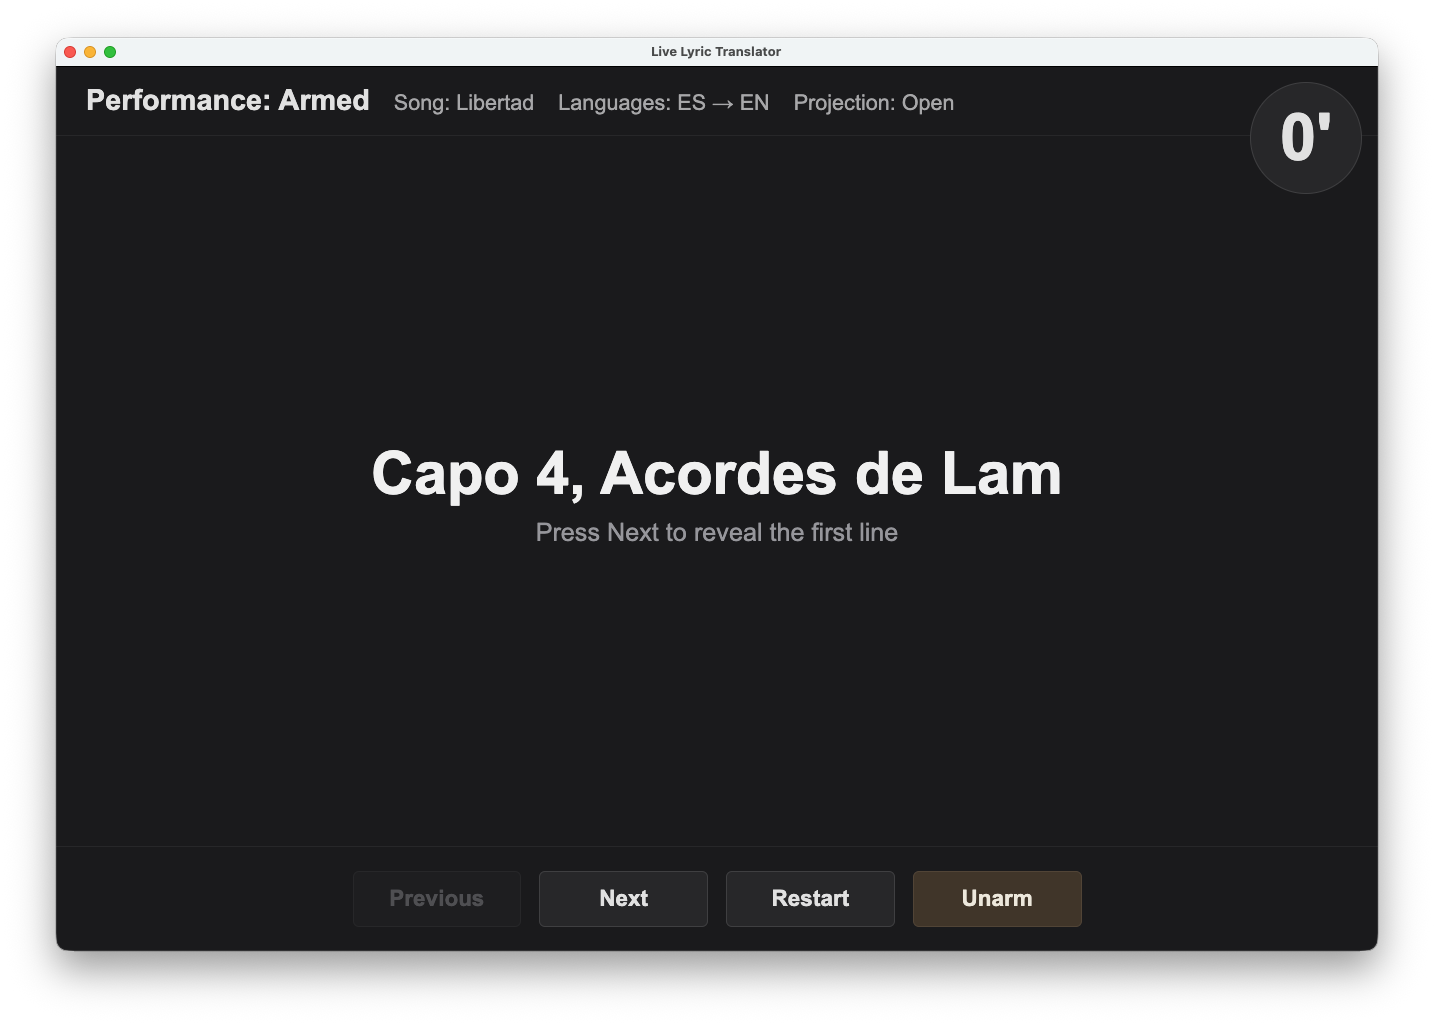
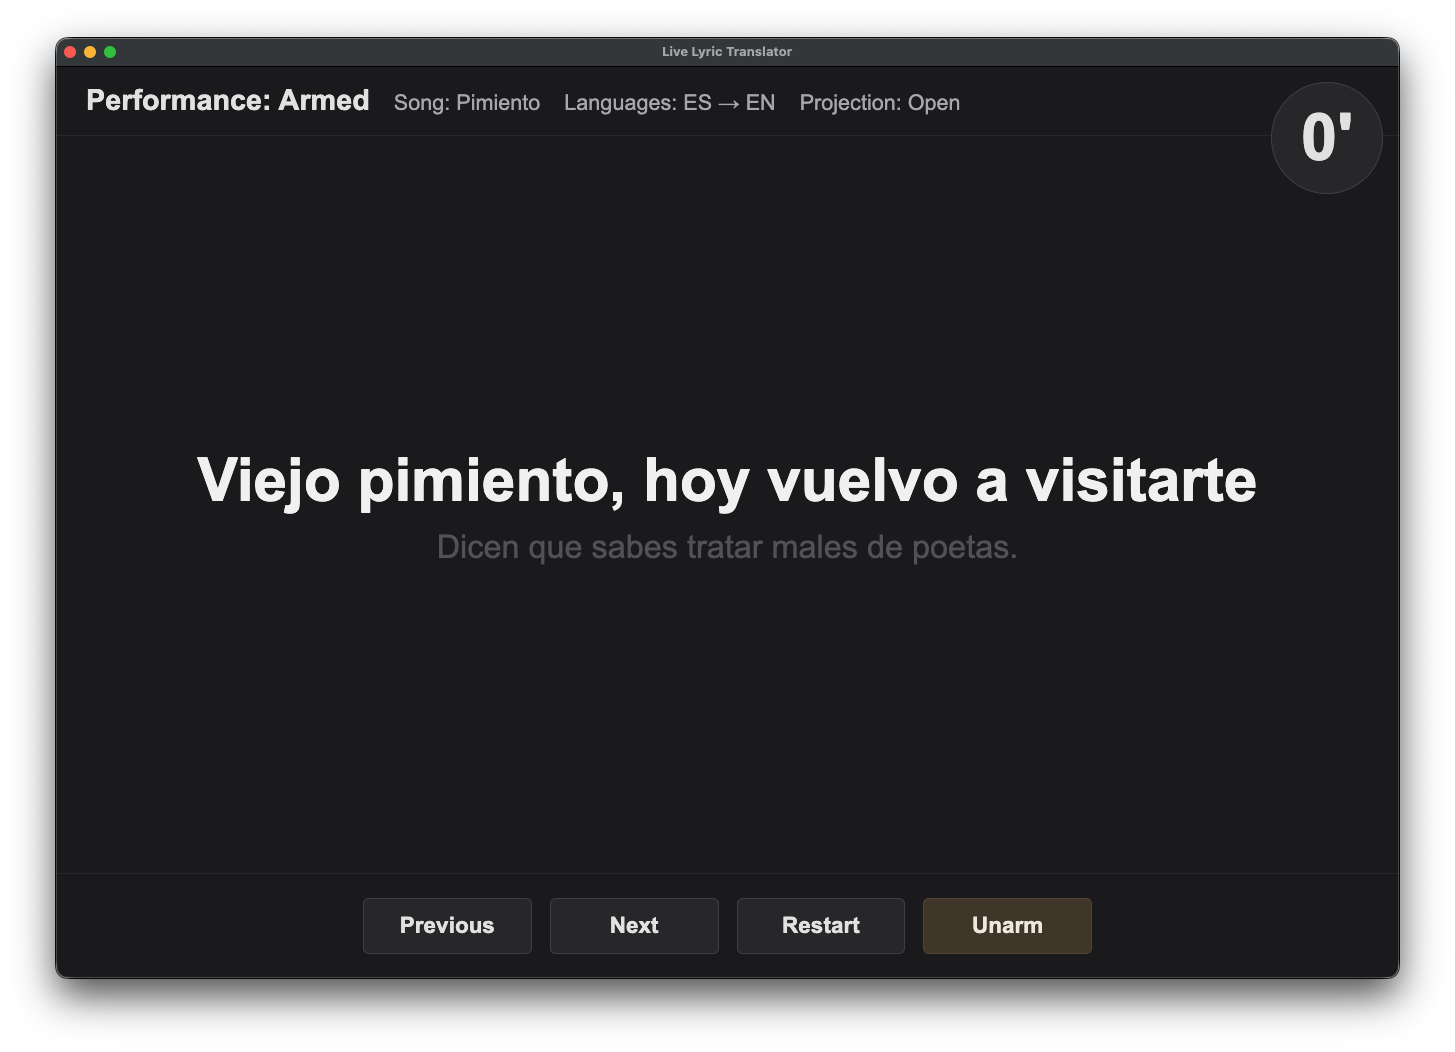
Refine README and clarify app workflow

Changed region(s): [[0.0307, 0.0312, 0.9819, 0.9678], [0.1227, 0.4371, 0.8591, 0.5307]]

diff --git a/README.md b/README.md
@@ -38,6 +38,11 @@ The performer advances each phrase manually while singing, allowing subtitles to
 - Timer for concert
 - Works fully offline
 
+## 🚀 Quick Start
+
+- npm install
+- npm run dev
+
 ## ⚙ How it works
 
 The app is a desktop application with two synchronized windows:
@@ -65,11 +70,6 @@ The Control window adapts to two phases of the performance:
 Displayed on a projector and visible to the audience.
 
 It shows only the current translated lyric line, without controls or additional information.
-
-## 🚀 Quick Start
-
-- npm install
-- npm run dev
 
 ## 🎬 Concert workflow
 
@@ -165,14 +165,14 @@ They can then be managed and organized into a Setlist for live performance.
 
 ```json
 {
-  "title": "Duelo",
-  "notes": "Capo 3, Acordes de Mim",
+  "title": "Pimiento",
+  "notes": "Capo 3, Acordes de DO",
   "lyrics": [
     {
-      "es": "Como cualquier atardecer,",
-      "en": "Like any fading sunset,",
-      "fr": "Comme un soir qui s’efface,",
-      "nl": "Zoals elke avond valt,"
+      "es": "Viejo pimiento,\nhoy vuelvo a visitarte",
+      "en": "Old pepper tree,\ntoday I come back to see you,",
+      "fr": "Vieux pimentier,\naujourd’hui je reviens te voir,",
+      "nl": "Oude peperboom,\nvandaag kom ik je weer bezoeken,"
     },
     ...
   ]
